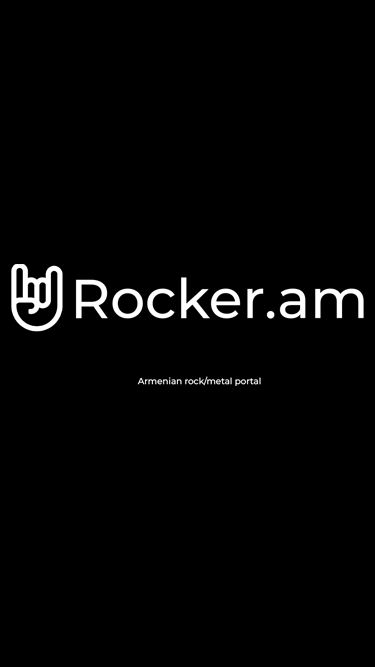
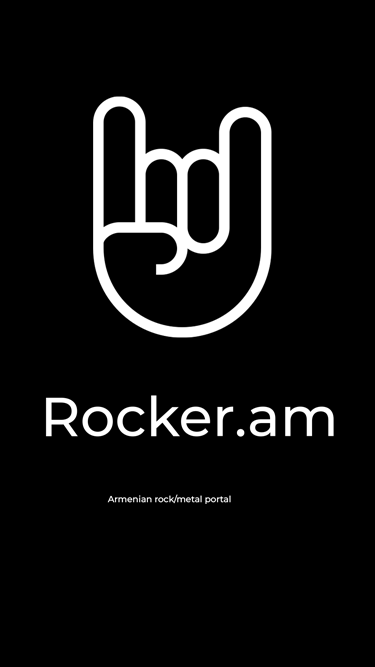
event page

diff --git a/resources/js/Components/Nav/PwaNavbar.vue b/resources/js/Components/Nav/PwaNavbar.vue
@@ -1,0 +1,58 @@
+<script setup>
+import { Link } from '@inertiajs/vue3';
+import EventIcon from '@/Components/Icons/EventIcon.vue';
+import BlogIcon from '@/Components/Icons/BlogIcon.vue';
+import GalleryIcon from '@/Components/Icons/GalleryIcon.vue';
+import BandIcon from '@/Components/Icons/BandIcon.vue';
+</script>
+<!--bg-pwaNavbg-->
+<template>
+    <div
+        class="z-10 fixed bottom-0 w-full bg-pwaNavbg">
+        <div class="flex items-center gap-x-2 mx-auto w-fit pt-2 text-gray text-sm tracking-widest uppercase">
+
+            <Link
+                class="p-2 rounded-full"
+                :href="route('home')">
+                <EventIcon />
+            </Link>
+            <Link
+                class="p-2 rounded-full"
+                :href="route('home')">
+                <BlogIcon />
+            </Link>
+            <Link
+                class="hover:bg-orange p-2 rounded-full"
+                :href="route('home')">
+                <img src="/images/logo.png" alt="logo" class="w-10 logo" />
+            </Link>
+            <Link
+                class="p-2 rounded-full"
+                :href="route('home')">
+                <GalleryIcon />
+            </Link>
+            <Link
+                class="p-2 rounded-full"
+                :href="route('home')">
+                <BandIcon />
+            </Link>
+
+            <Link
+                v-if="$page.props.auth.user"
+                :href="route('dashboard')"
+                class="rounded-md px-3 py-2 text-white ring-1 ring-transparent transition hover:text-black/70 focus:outline-none focus-visible:ring-[#FF2D20] dark:text-white dark:hover:text-white/80 dark:focus-visible:ring-white"
+            >
+                Profile
+            </Link>
+        </div>
+    </div>
+</template>
+<style class="scss">
+a:hover {
+    svg {
+        fill: theme('colors.orange');
+    }
+
+    opacity: 1;
+}
+</style>

diff --git a/resources/js/Pages/Events.vue b/resources/js/Pages/Events.vue
@@ -11,14 +11,15 @@ defineProps({
 
 <template>
     <GuestLayout :meta="{title: 'Events'}">
-        <p>{{ $isPWA ? 'pwa' : 'web' }}</p>
         <div class="flex flex-col max-w-screen-sm mx-auto">
             <h1 class="text-2xl font-bold">Events</h1>
             <div class="flex flex-col gap-y-10">
                 <div v-for="event in events.data" :key="event.id" class="mb-2 h-[600px]">
-                    <div class="relative h-full">
-                        <img :src="event.poster" :alt="event.title" class="w-full h-full object-fill object-center" />
-                        <div class="absolute bottom-0 w-full h-52 bg-gradient-to-t from-black to-transparent">
+                    <div class="relative h-full" :style="{ backgroundImage: `url(${event.poster})`}">
+                        <div class="absolute inset-0 backdrop-blur-md z-0"></div>
+                        <img :src="event.poster" :alt="event.title"
+                             class="absolute w-full h-full object-contain object-center z-10" />
+                        <div class="absolute z-20 bottom-0 w-full h-52 bg-gradient-to-t from-black to-transparent">
                             <h3 class="text-2xl text-center pt-32">{{ event.title }} </h3>
                             <p class="text-center text-gray-300">{{ event.location }}</p>
                             <p class="text-center"><b>{{ event.start_date }}</b> <span>{{ event.start_time }}</span></p>

diff --git a/resources/js/Components/Nav/MainNavbar.vue b/resources/js/Components/Nav/MainNavbar.vue
@@ -3,11 +3,26 @@ import { Link } from '@inertiajs/vue3';
 </script>
 
 <template>
-    <div class="flex gap-x-2 mx-auto w-fit pt-5 text-gray text-sm tracking-widest uppercase">
-        <p class=" ">Home</p>
+    <div class="flex items-center gap-x-2 mx-auto w-fit pt-5 text-gray text-sm tracking-widest uppercase">
         <Link
             :href="route('home')">
-            Menu
+            Events
+        </Link>
+        <Link
+            :href="route('home')">
+            Blog
+        </Link>
+        <Link
+            :href="route('home')">
+            <img src="/images/logo.png" alt="logo" class="w-10 logo" />
+        </Link>
+        <Link
+            :href="route('home')">
+            Gallery
+        </Link>
+        <Link
+            :href="route('home')">
+            Bands
         </Link>
 
         <Link
@@ -19,3 +34,6 @@ import { Link } from '@inertiajs/vue3';
         </Link>
     </div>
 </template>
+<style>
+
+</style>

diff --git a/resources/js/Components/Icons/BandIcon.vue b/resources/js/Components/Icons/BandIcon.vue
@@ -1,0 +1,7 @@
+<template>
+
+    <svg xmlns="http://www.w3.org/2000/svg" height="24px" viewBox="0 -960 960 960" width="24px" fill="#e8eaed">
+        <path
+            d="M0-240v-63q0-43 44-70t116-27q13 0 25 .5t23 2.5q-14 21-21 44t-7 48v65H0Zm240 0v-65q0-32 17.5-58.5T307-410q32-20 76.5-30t96.5-10q53 0 97.5 10t76.5 30q32 20 49 46.5t17 58.5v65H240Zm540 0v-65q0-26-6.5-49T754-397q11-2 22.5-2.5t23.5-.5q72 0 116 26.5t44 70.5v63H780Zm-455-80h311q-10-20-55.5-35T480-370q-55 0-100.5 15T325-320ZM160-440q-33 0-56.5-23.5T80-520q0-34 23.5-57t56.5-23q34 0 57 23t23 57q0 33-23 56.5T160-440Zm640 0q-33 0-56.5-23.5T720-520q0-34 23.5-57t56.5-23q34 0 57 23t23 57q0 33-23 56.5T800-440Zm-320-40q-50 0-85-35t-35-85q0-51 35-85.5t85-34.5q51 0 85.5 34.5T600-600q0 50-34.5 85T480-480Zm0-80q17 0 28.5-11.5T520-600q0-17-11.5-28.5T480-640q-17 0-28.5 11.5T440-600q0 17 11.5 28.5T480-560Zm1 240Zm-1-280Z" />
+    </svg>
+</template>

diff --git a/resources/js/Layouts/GuestLayout.vue b/resources/js/Layouts/GuestLayout.vue
@@ -2,6 +2,8 @@
 import { Head, usePage } from '@inertiajs/vue3';
 import PWAinstall from '@/Components/PWAinstall.vue';
 import MainNavbar from '@/Components/Nav/MainNavbar.vue';
+import Footer from '@/Components/Footer/Footer.vue';
+import PwaNavbar from '@/Components/Nav/PwaNavbar.vue';
 
 
 defineProps({
@@ -20,7 +22,8 @@ const page = usePage();
     <div
         class="min-h-screen  bg-black text-white pt-6 sm:pt-0"
     >
-        <MainNavbar v-if="page.url !== '/'" />
+        <MainNavbar v-if="page.url !== '/' && !true " />
+        <PwaNavbar v-else-if="page.url !== '/'" />
         <div
         >
             <main class="my-20">
@@ -29,4 +32,5 @@ const page = usePage();
             <PWAinstall />
         </div>
     </div>
+    <Footer />
 </template>

diff --git a/resources/js/Components/Icons/GalleryIcon.vue b/resources/js/Components/Icons/GalleryIcon.vue
@@ -1,0 +1,7 @@
+<template>
+
+    <svg xmlns="http://www.w3.org/2000/svg" height="24px" viewBox="0 -960 960 960" width="24px" fill="#e8eaed">
+        <path
+            d="M120-200q-33 0-56.5-23.5T40-280v-400q0-33 23.5-56.5T120-760h400q33 0 56.5 23.5T600-680v400q0 33-23.5 56.5T520-200H120Zm600-320q-17 0-28.5-11.5T680-560v-160q0-17 11.5-28.5T720-760h160q17 0 28.5 11.5T920-720v160q0 17-11.5 28.5T880-520H720Zm40-80h80v-80h-80v80ZM120-280h400v-400H120v400Zm40-80h320L375-500l-75 100-55-73-85 113Zm560 160q-17 0-28.5-11.5T680-240v-160q0-17 11.5-28.5T720-440h160q17 0 28.5 11.5T920-400v160q0 17-11.5 28.5T880-200H720Zm40-80h80v-80h-80v80Zm-640 0v-400 400Zm640-320v-80 80Zm0 320v-80 80Z" />
+    </svg>
+</template>

diff --git a/resources/js/Components/Icons/EventIcon.vue b/resources/js/Components/Icons/EventIcon.vue
@@ -1,0 +1,7 @@
+<template>
+
+    <svg xmlns="http://www.w3.org/2000/svg" height="24px" viewBox="0 -960 960 960" width="24px" fill="#e8eaed">
+        <path
+            d="m80-80 200-560 360 360L80-80Zm132-132 282-100-182-182-100 282Zm370-246-42-42 224-224q32-32 77-32t77 32l24 24-42 42-24-24q-14-14-35-14t-35 14L582-458ZM422-618l-42-42 24-24q14-14 14-34t-14-34l-26-26 42-42 26 26q32 32 32 76t-32 76l-24 24Zm80 80-42-42 144-144q14-14 14-35t-14-35l-64-64 42-42 64 64q32 32 32 77t-32 77L502-538Zm160 160-42-42 64-64q32-32 77-32t77 32l64 64-42 42-64-64q-14-14-35-14t-35 14l-64 64ZM212-212Z" />
+    </svg>
+</template>

diff --git a/resources/js/Components/Icons/BlogIcon.vue b/resources/js/Components/Icons/BlogIcon.vue
@@ -1,0 +1,7 @@
+<template>
+
+    <svg xmlns="http://www.w3.org/2000/svg" height="24px" viewBox="0 -960 960 960" width="24px" fill="#e8eaed">
+        <path
+            d="M280-280h280v-80H280v80Zm0-160h400v-80H280v80Zm0-160h400v-80H280v80Zm-80 480q-33 0-56.5-23.5T120-200v-560q0-33 23.5-56.5T200-840h560q33 0 56.5 23.5T840-760v560q0 33-23.5 56.5T760-120H200Zm0-80h560v-560H200v560Zm0-560v560-560Z" />
+    </svg>
+</template>

diff --git a/tailwind.config.js b/tailwind.config.js
@@ -16,7 +16,9 @@ export default {
                 sans: ['Figtree', ...defaultTheme.fontFamily.sans]
             },
             colors: {
-                gray: 'var(--gray)'
+                gray: 'var(--gray)',
+                orange: '#FF5722',
+                pwaNavbg: 'rgba(50,62,74,0.58)'
             },
             fontSize: {
                 'sm': '13px'

diff --git a/resources/js/Components/Footer/Footer.vue b/resources/js/Components/Footer/Footer.vue
@@ -1,0 +1,13 @@
+<script setup>
+
+</script>
+
+<template>
+    <footer>
+        <div class="flex justify-center md:justify-end pr-3 pb-1">
+            <a href="https://t.me/mpetrosyan1" target="_blank">
+                <small>Developed by Miqayel Petrosyan</small>
+            </a>
+        </div>
+    </footer>
+</template>

diff --git a/resources/js/Pages/Soon.vue b/resources/js/Pages/Soon.vue
@@ -70,7 +70,7 @@ onBeforeUnmount(() => {
             </div>
             <div class="bg"></div>
             <div class="logo">
-                <img src="/images/logo.png" />
+                <img src="/images/logocs.png" />
             </div>
         </section>
     </GuestLayout>

diff --git a/resources/views/app.blade.php b/resources/views/app.blade.php
@@ -7,8 +7,8 @@
 
     <!-- PWA Manifest -->
     <link rel="manifest" href="/manifest.webmanifest">
-    <link rel="apple-touch-icon" href="/icon-192.png">
-
+    <link rel="apple-touch-icon" href="/favicon-apple.png">
+    <link rel="icon" type="image/png" href="{{ asset('favicon.png') }}">
     @routes
     @vite([
         'resources/js/app.js',
